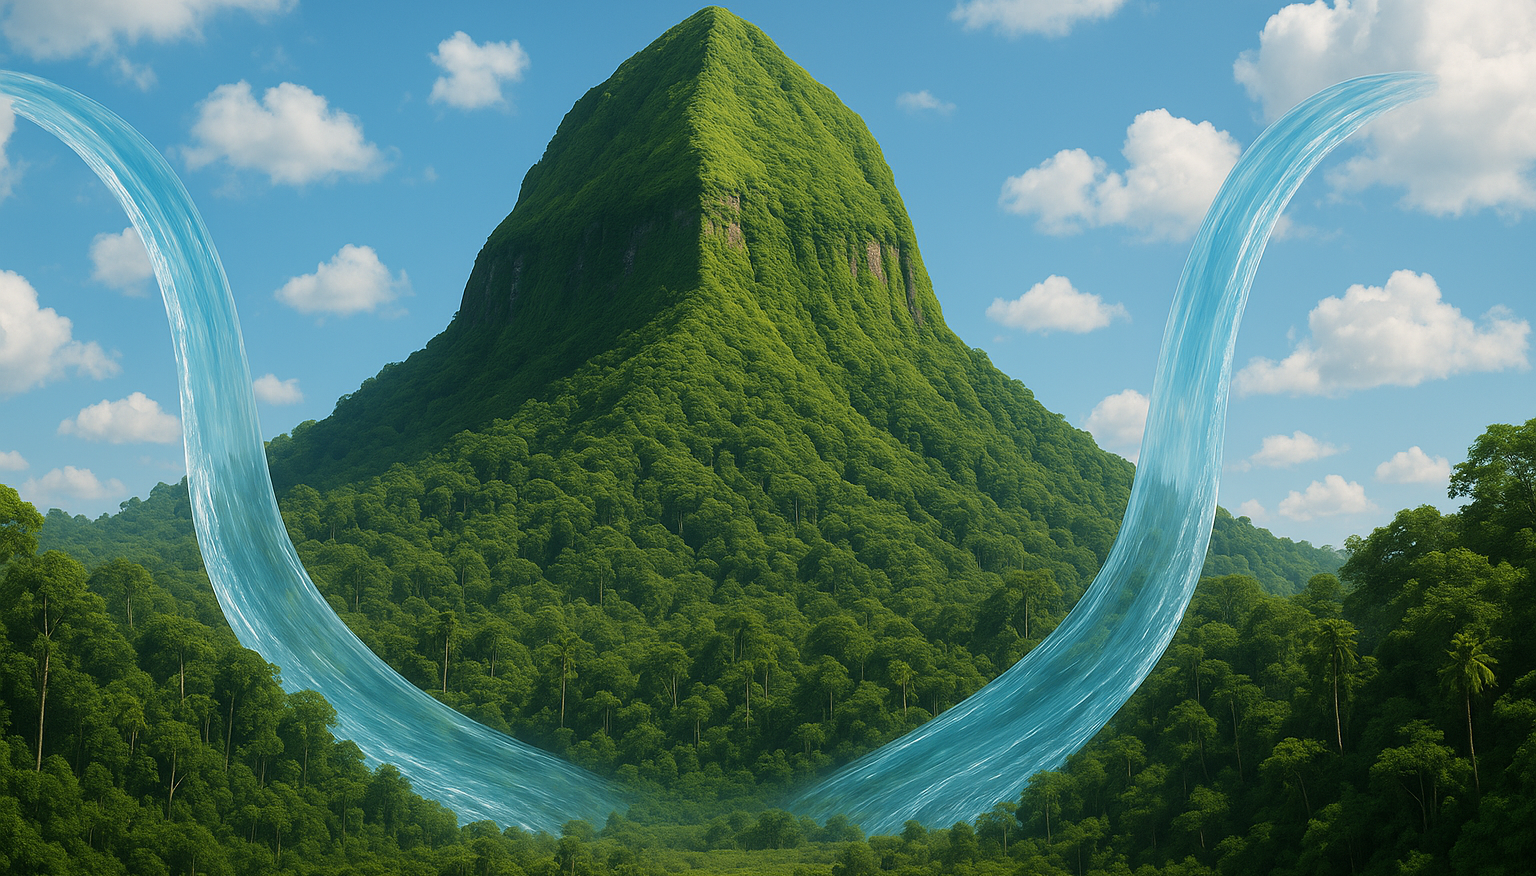
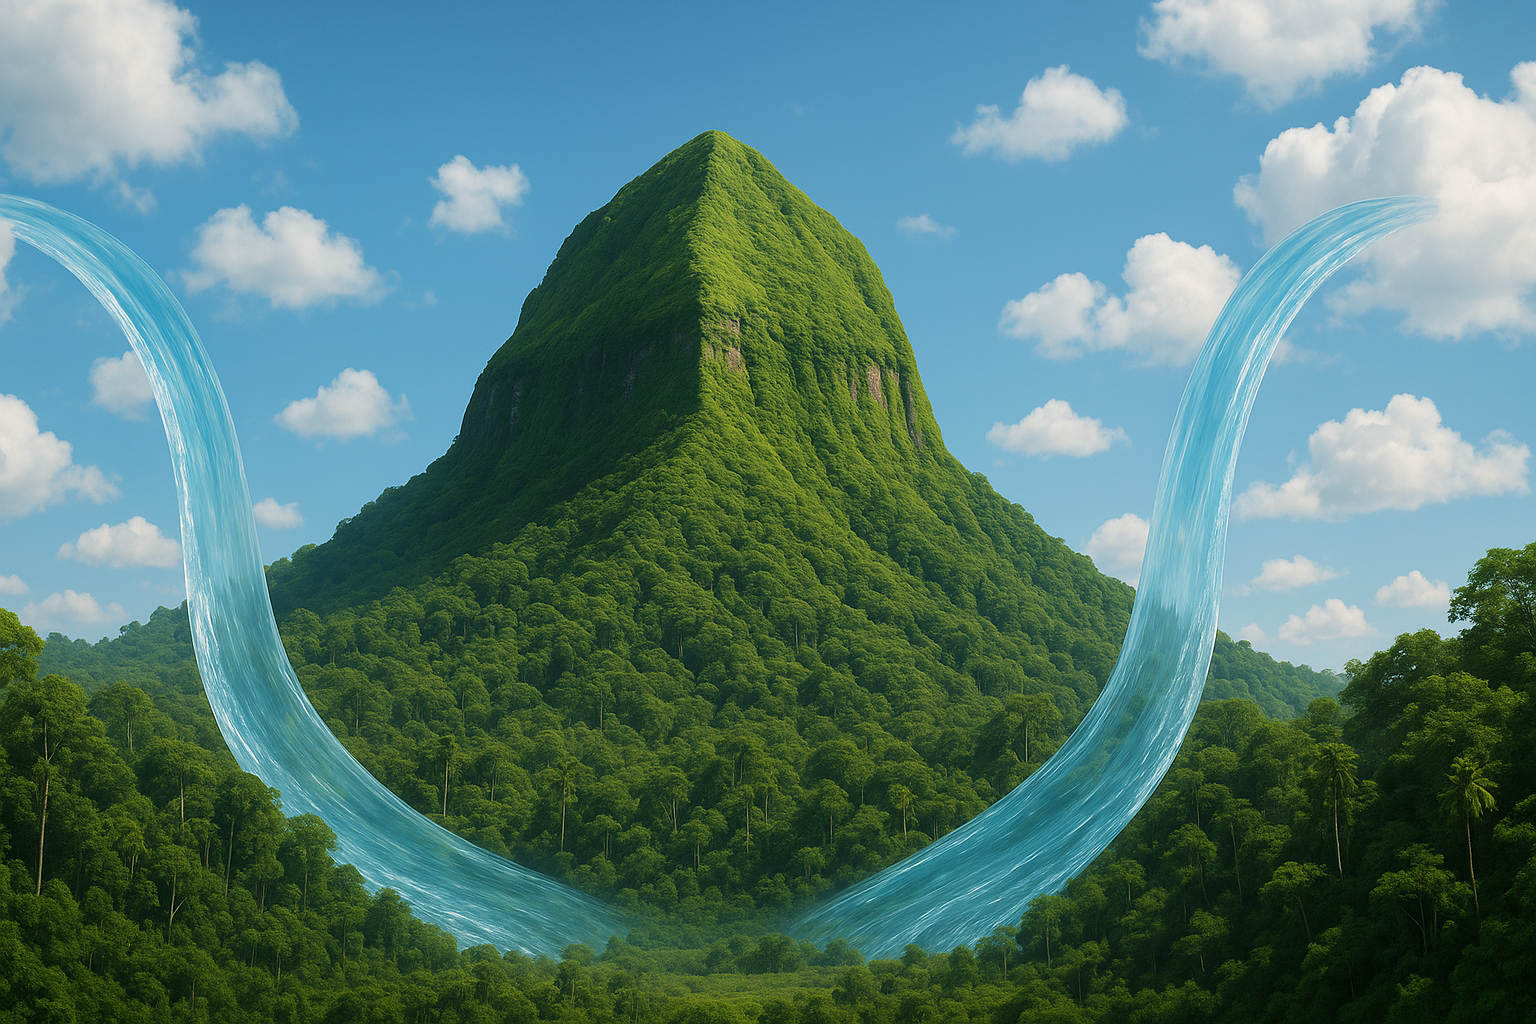
media_140725

diff --git a/assets/style.css b/assets/style.css
@@ -4,10 +4,18 @@
     font-family: 'Segoe UI', Tahoma, Geneva, Verdana, sans-serif;
 }
 
+/* body {
+    background: url(/img/mountain3.png) -2% -35%/108% no-repeat;
+} */
+
+body {
+    background: url(/img/sky.jpg) top/cover no-repeat;
+}
+
 header {
     position: relative;
     height: 750px;
-    background: url(/img/mountain3.png) top/cover no-repeat;
+    background: url(/img/mountain3.png) 0% 25%/108% no-repeat;
 }
 
 header h1 {
@@ -24,7 +32,7 @@ header h1 {
 }
 
 .h1Fly {
-    animation: h1Fly 1s 2s ease-in-out forwards;
+    animation: h1Fly 1s 1s ease-in-out forwards;
 }
 
 @keyframes h1Fly {
@@ -34,8 +42,8 @@ header h1 {
     }
 
     to {
-        top: 60px;
-        left: 18%;
+        top: 8px;
+        left: 9%;
     }
 }
 
@@ -463,7 +471,7 @@ a.lk_link_button {
     
         to {
             top: 40px;
-            left: 18%;
+            left: 10%;
         }
     }
 
@@ -500,7 +508,7 @@ a.lk_link_button {
     }
 }
 
-@media screen and (max-width:1039px) {
+@media screen and (max-width:1047px) {
 
     @keyframes h1Fly {
         from {
@@ -512,6 +520,11 @@ a.lk_link_button {
             top: 13px;
             left: 13%;
         }
+    }
+
+    header {
+        height: 650px;
+        background: url(/img/mountain3.png) 0% 0%/108% no-repeat;
     }
 
     .content {
@@ -529,10 +542,6 @@ a.lk_link_button {
 
 @media screen and (max-width:971px) {
     
-    header {
-        height: 600px;
-    }
-
     @keyframes h1Fly {
         from {
             top: -120px;
@@ -543,6 +552,10 @@ a.lk_link_button {
             top: 8px;
             left: 5%;
         }
+    }
+
+    header {
+        height: 600px;
     }
 
     a.topMenuButton {
@@ -556,10 +569,10 @@ a.lk_link_button {
 }
 
 
-@media screen and (max-width:769px) {
+@media screen and (max-width:840px) {
 
     header {
-        height:450px;
+        height: 500px;
     }
 
     header h1 {
@@ -583,7 +596,11 @@ a.lk_link_button {
     }
 }
 
-@media screen and (max-width:671px) {
+@media screen and (max-width:691px) {
+
+    header {
+        height: 450px;
+    }
 
     header h1 {
         font-size: 3.5rem;
@@ -599,7 +616,7 @@ a.lk_link_button {
 
 }
 
-@media screen and (max-width:600px) {
+@media screen and (max-width:637px) {
 
     header {
         height: 400px;
@@ -616,23 +633,29 @@ a.lk_link_button {
 
 }
 
-@media screen and (max-width:531px) {
+@media screen and (max-width:551px) {
+
+    header {
+        height: 350px;
+    }
 
     a.topMenuButton {
         padding: 7px;
     }
+
     .lk_link_button {
         padding: 7px;
     }
+
     .logout_button {
         padding: 7px;
     }
 }
 
-@media screen and (max-width:451px) {
+@media screen and (max-width:501px) {
 
     header {
-        height: 350px;
+        height: 300px;
     }
 
     header h1 {
@@ -657,9 +680,88 @@ a.lk_link_button {
 
 }
 
-@media screen and (max-width:360px) {
+@media screen and (max-width:424px) {
+
+    a.topMenuButton {
+        padding: 5px;
+    }
+
+    .lk_link_button {
+        top: 5px;
+        right: 5px;
+        width: 100px;
+        padding: 5px;
+    }
+
+    .logout_button {
+        top: 80px;
+        right: 5px;
+        width: 100px;
+        padding: 5px;
+    }
 
     .content {
         padding: 1px;
     }
+
+}
+
+@media screen and (max-width:414px) {
+
+    header {
+        height: 360px;
+    }
+}
+
+@media screen and (max-width:404px) {
+
+    header {
+        height: 362px;
+    }
+
+    a.topMenuButton {
+        padding: 5px 20px;
+    }
+}
+
+@media screen and (max-width:401px) {
+
+    header {
+        height: 360px;
+    }
+
+    header h1 {
+        font-size: 2.5rem;
+    }
+}
+
+@media screen and (max-width:399px) {
+
+    header {
+        height: 321px;
+    }
+
+    a.topMenuButton {
+        padding: 4px;
+    }
+}
+
+@media screen and (max-width:363px) {
+
+    header {
+        height: 326px;
+    }
+
+        @keyframes h1Fly {
+        from {
+            top: -120px;
+            left: -50%;
+        }
+    
+        to {
+            top: 5px;
+            left: 4%;
+        }
+    }
+
 }
